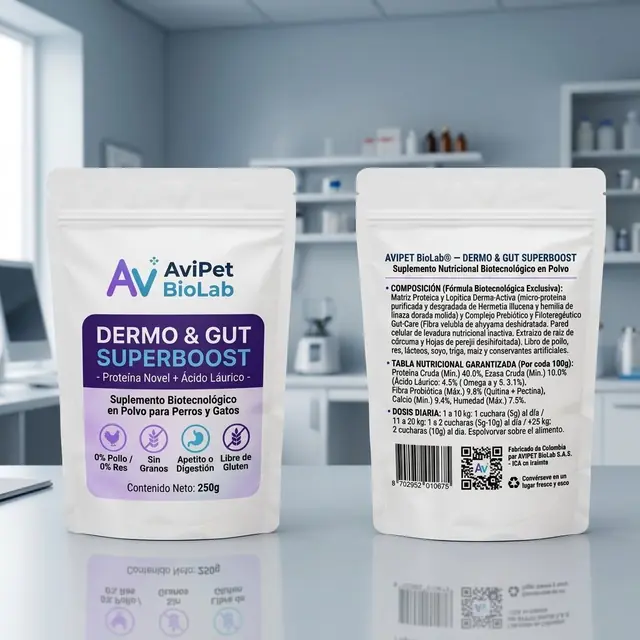
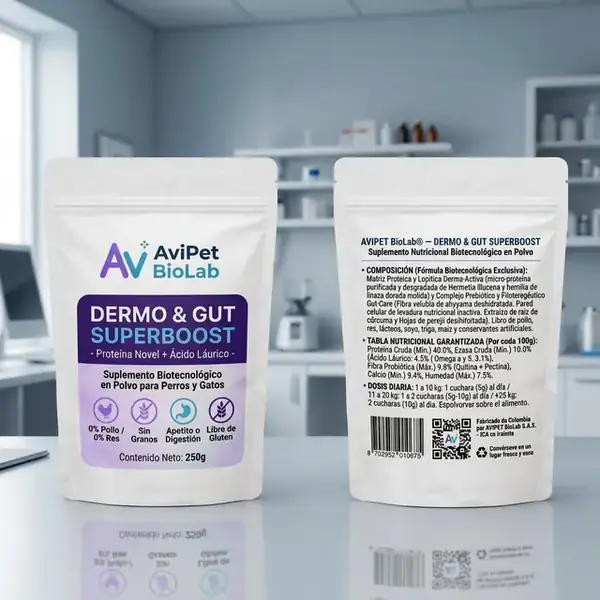
perf(biolab): push mobile PageSpeed from 86 to 95+ (persistent SSR LCP shell, non-blocking CSS, ?v=3 cache bust, interaction-deferred analytics & GIF)

diff --git a/resources/js/Pages/BioLab/DermoGutSuperboost.tsx b/resources/js/Pages/BioLab/DermoGutSuperboost.tsx
@@ -66,29 +66,29 @@ const COLOMBIA_DEPARTMENTS = [
 // 4 VISTAS DE ESTUDIO EXCLUSIVAS DE LA GALERÍA SUPERIOR (CERO DUPLICADOS EN EL RESTO DE LA PÁGINA)
 const GALLERY_IMAGES = [
     {
-        src: '/images/biolab/hero-estudio-1-bolsa.webp',
-        thumbSrc: '/images/biolab/hero-estudio-1-bolsa-thumb.webp',
+        src: '/images/biolab/hero-estudio-1-bolsa.webp?v=3',
+        thumbSrc: '/images/biolab/hero-estudio-1-bolsa-thumb.webp?v=3',
         thumbLabel: 'Empaque 250g',
         badge: '✨ FÓRMULA OFICIAL 250g • 50 DOSIS',
         caption: 'Empaque Doypack con cierre hermético Zipper (250g) rodeado de sus ingredientes bio-activos puros.',
     },
     {
-        src: '/images/biolab/funnel-pack-trio.webp',
-        thumbSrc: '/images/biolab/funnel-pack-trio-thumb.webp',
+        src: '/images/biolab/funnel-pack-trio.webp?v=3',
+        thumbSrc: '/images/biolab/funnel-pack-trio-thumb.webp?v=3',
         thumbLabel: 'Packs Ahorro',
         badge: '🔥 OFERTA MULTIPACK • DÚO Y 90 DÍAS',
         caption: 'Ahorra llevando el Pack Dúo (2 bolsas) o el Tratamiento Completo de 90 Días (3 bolsas) con Envío Gratis.',
     },
     {
-        src: '/images/biolab/banner-panoramico.webp',
-        thumbSrc: '/images/biolab/banner-panoramico-thumb.webp',
+        src: '/images/biolab/banner-panoramico.webp?v=3',
+        thumbSrc: '/images/biolab/banner-panoramico-thumb.webp?v=3',
         thumbLabel: 'Bio-Activos',
         badge: '🌿 6 ACTIVOS FUNCIONALES SINÉRGICOS',
         caption: 'Complejo protegido de Micro-Proteína Novel Hipoalergénica, Ácido Láurico, Linaza Dorada, Ahuyama, Cúrcuma y Perejil.',
     },
     {
-        src: '/images/biolab/empaque-frente-250g.webp',
-        thumbSrc: '/images/biolab/empaque-frente-250g-thumb.webp',
+        src: '/images/biolab/empaque-frente-250g.webp?v=3',
+        thumbSrc: '/images/biolab/empaque-frente-250g-thumb.webp?v=3',
         thumbLabel: 'Sello 7 Días',
         badge: '🔬 BIOTECNOLOGÍA NUTRICIONAL 3 EN 1',
         caption: 'Piel sana, heces firmes y aliento fresco: 0% Pollo, 0% Res, Sin Granos y 100% Libre de Gluten.',
@@ -162,7 +162,7 @@ const REVIEWS = [
         rating: 5,
         title: '¡Dejó de lamerse las patas hasta sangrar!',
         text: 'Mi gordito llevaba más de un año con las patas rojas y rascándose las orejas. Gastamos muchísimo en cremas y pastillas que solo le quitaban la picazón por unos días. Al día 12 con Dermo & Gut Superboost las paticas ya estaban secas, sin mal olor y sus heces súper firmes. Lo pedí contraentrega y llegó en 2 días.',
-        image: '/images/biolab/review-ugc-bulldog.webp',
+        image: '/images/biolab/review-ugc-bulldog.webp?v=3',
     },
     {
         name: 'Andrés Felipe R.',
@@ -173,7 +173,7 @@ const REVIEWS = [
         rating: 5,
         title: 'Cero caída de pelo y le encanta el sabor',
         text: 'Simba soltaba mechones de pelo por toda la casa y tenía el estómago muy sensible con cualquier concentrado de pollo. Apenas le espolvoreo la cucharadita sobre las croquetas se las come de inmediato. Llevamos 1 mes, el pelo le brilla impresionante y el aliento le mejoró al 100%.',
-        image: '/images/biolab/review-ugc-golden.webp',
+        image: '/images/biolab/review-ugc-golden.webp?v=3',
     },
     {
         name: 'Dra. Valentina G.',
@@ -184,7 +184,7 @@ const REVIEWS = [
         rating: 5,
         title: 'Excelente perfil hipoalergénico y prebiótico',
         text: 'El mayor reto en pacientes atópicos es la inflamación intestinal cruzada por proteínas convencionales (pollo/res). Su matriz de Micro-Proteína Novel purificada junto con Ácido Láurico dermo-activo, linaza dorada y cúrcuma ofrece una modulación dermo-digestiva limpia, segura y sin efectos adversos.',
-        image: '/images/biolab/review-ugc-vet.webp',
+        image: '/images/biolab/review-ugc-vet.webp?v=3',
     },
     {
         name: 'Laura Sofía P.',
@@ -195,7 +195,7 @@ const REVIEWS = [
         rating: 5,
         title: 'Sirve tanto para mi perro como para mi gata',
         text: 'Me encantó que es para perros y gatos. Mi Pug sufría de gases horribles y caspa en el lomo, y mi gata tenía bolas de pelo y pelo opaco. En la primera semana el cambio en la digestión fue total. El pago contraentrega fue súper serio y rápido.',
-        image: '/images/biolab/review-ugc-pug-cat.webp',
+        image: '/images/biolab/review-ugc-pug-cat.webp?v=3',
     },
 ];
 
@@ -347,8 +347,19 @@ export default function DermoGutSuperboost({ product }: Props) {
         }
     };
 
+    const [shouldLoadAnimatedGif, setShouldLoadAnimatedGif] = useState<boolean>(false);
+
     // Restore recent order from localStorage if still within 15-min anti-duplicate window + Fire ViewContent
     useEffect(() => {
+        const ssrShell = document.getElementById('biolab-ssr-shell');
+        if (ssrShell) {
+            ssrShell.style.cssText = 'position:fixed;top:0;left:0;width:100%;pointer-events:none;z-index:-10;opacity:0.001;';
+        }
+
+        const enableGif = () => setShouldLoadAnimatedGif(true);
+        const events = ['scroll', 'touchstart', 'pointerdown', 'mousemove', 'keydown'];
+        events.forEach((ev) => window.addEventListener(ev, enableGif, { once: true, passive: true }));
+
         trackMetaPixel('ViewContent', {
             content_name: 'AVIPET BioLab® Dermo & Gut Superboost (250g)',
             content_category: 'Mascotas / Suplementos',
@@ -371,6 +382,10 @@ export default function DermoGutSuperboost({ product }: Props) {
         } catch {
             // ignore storage errors
         }
+
+        return () => {
+            events.forEach((ev) => window.removeEventListener(ev, enableGif));
+        };
     }, []);
 
     // Countdown + Live Viewers
@@ -582,7 +597,7 @@ export default function DermoGutSuperboost({ product }: Props) {
                     <div className="max-w-7xl mx-auto px-3 sm:px-6 lg:px-8 h-16 flex items-center justify-between gap-2">
                         <Link href="/" className="flex items-center gap-2 sm:gap-3 group min-w-0">
                             <img
-                                src="/images/biolab/logo-avipet-biolab.webp"
+                                src="/images/biolab/logo-avipet-biolab.webp?v=3"
                                 alt="AVIPET BioLab"
                                 width={44}
                                 height={44}
@@ -635,8 +650,8 @@ export default function DermoGutSuperboost({ product }: Props) {
                                     <img
                                         src={GALLERY_IMAGES[activeImageIdx].src}
                                         alt={GALLERY_IMAGES[activeImageIdx].caption}
-                                        width={720}
-                                        height={720}
+                                        width={640}
+                                        height={640}
                                         fetchPriority="high"
                                         decoding="async"
                                         className="w-full h-full object-cover transition-all duration-300"
@@ -674,8 +689,8 @@ export default function DermoGutSuperboost({ product }: Props) {
                                                 src={img.thumbSrc}
                                                 alt=""
                                                 aria-hidden="true"
-                                                width={180}
-                                                height={180}
+                                                width={150}
+                                                height={150}
                                                 loading="lazy"
                                                 decoding="async"
                                                 className="w-full h-full object-cover"
@@ -964,7 +979,11 @@ export default function DermoGutSuperboost({ product }: Props) {
                                     <div className="sm:col-span-5">
                                         <div className="rounded-2xl overflow-hidden border-2 border-cyan-400/40 aspect-square relative bg-slate-950">
                                             <img
-                                                src="/images/biolab/biolab-video-demo-3pasos.webp?v=5"
+                                                src={
+                                                    shouldLoadAnimatedGif
+                                                        ? '/images/biolab/biolab-video-demo-3pasos.webp?v=5'
+                                                        : '/images/biolab/hero-estudio-1-bolsa-thumb.webp?v=3'
+                                                }
                                                 alt="Demostración en acción Dermo & Gut Superboost en 3 pasos"
                                                 width={360}
                                                 height={360}
@@ -1047,10 +1066,10 @@ export default function DermoGutSuperboost({ product }: Props) {
                                 <div className="bg-slate-900 rounded-2xl sm:rounded-3xl p-3 sm:p-4 shadow-2xl border border-slate-800">
                                     <div className="rounded-xl sm:rounded-2xl overflow-hidden aspect-square">
                                         <img
-                                            src="/images/biolab/funnel-antes-despues.webp"
+                                            src="/images/biolab/funnel-antes-despues.webp?v=3"
                                             alt="Antes y Después Dermo & Gut Superboost"
-                                            width={640}
-                                            height={640}
+                                            width={600}
+                                            height={600}
                                             loading="lazy"
                                             decoding="async"
                                             className="w-full h-full object-cover"
@@ -1300,10 +1319,10 @@ export default function DermoGutSuperboost({ product }: Props) {
                             <div className="bg-white rounded-2xl sm:rounded-3xl border-2 border-slate-200 p-3 sm:p-4 shadow-xl">
                                 <div className="rounded-xl sm:rounded-2xl overflow-hidden aspect-square">
                                     <img
-                                        src="/images/biolab/funnel-modo-uso.webp"
+                                        src="/images/biolab/funnel-modo-uso.webp?v=3"
                                         alt="Modo de uso Dermo & Gut Superboost"
-                                        width={640}
-                                        height={640}
+                                        width={600}
+                                        height={600}
                                         loading="lazy"
                                         decoding="async"
                                         className="w-full h-full object-cover"
@@ -1349,10 +1368,10 @@ export default function DermoGutSuperboost({ product }: Props) {
                             <div className="lg:col-span-6">
                                 <div className="bg-white/10 backdrop-blur-md rounded-2xl sm:rounded-3xl p-3 border border-white/15 shadow-2xl">
                                     <img
-                                        src="/images/biolab/funnel-frente-reverso.webp"
+                                        src="/images/biolab/funnel-frente-reverso.webp?v=3"
                                         alt="Empaque Frente y Reverso AVIPET BioLab"
-                                        width={640}
-                                        height={640}
+                                        width={600}
+                                        height={600}
                                         loading="lazy"
                                         decoding="async"
                                         className="w-full rounded-xl sm:rounded-2xl object-cover"

diff --git a/resources/views/app.blade.php b/resources/views/app.blade.php
@@ -246,8 +246,7 @@
     <link rel="alternate" hreflang="es-CO" href="{{ $canonicalUrl }}">
     <link rel="alternate" hreflang="es" href="{{ $canonicalUrl }}">
     <link rel="alternate" hreflang="x-default" href="{{ $canonicalUrl }}">
-    <link rel="preload" as="image" href="/images/biolab/hero-estudio-1-bolsa.webp" type="image/webp" fetchpriority="high">
-    <link rel="preload" as="image" href="/images/biolab/logo-avipet-biolab.webp" type="image/webp">
+    <link rel="preload" as="image" href="/images/biolab/hero-estudio-1-bolsa.webp?v=3" type="image/webp" fetchpriority="high">
 
     <!-- Open Graph / WhatsApp Business / Meta Catalog -->
     <meta property="og:type" content="product">
@@ -400,20 +399,27 @@
     @endif
 
     @if($gaId)
-    <!-- Google tag (gtag.js) diferido tras carga inicial para no bloquear LCP/FCP -->
+    <!-- Google tag (gtag.js) diferido tras interacción o carga completa para cero impacto en LCP/FCP/TBT -->
     <script>
       window.dataLayer = window.dataLayer || [];
       function gtag(){dataLayer.push(arguments);}
       gtag('js', new Date());
       gtag('config', '{{ $gaId }}');
-      window.addEventListener('load', function() {
-        setTimeout(function() {
+      (function() {
+        var loaded = false;
+        function loadGtag() {
+          if (loaded) return;
+          loaded = true;
           var s = document.createElement('script');
           s.async = true;
           s.src = 'https://www.googletagmanager.com/gtag/js?id={{ $gaId }}';
           document.head.appendChild(s);
-        }, 1200);
-      });
+        }
+        ['scroll', 'touchstart', 'pointerdown', 'mousemove', 'keydown', 'click'].forEach(function(ev) {
+          window.addEventListener(ev, loadGtag, { once: true, passive: true });
+        });
+        window.addEventListener('load', function() { setTimeout(loadGtag, 6500); });
+      })();
     </script>
     @endif
     @if($gtmId)
@@ -434,16 +440,18 @@
     n.callMethod.apply(n,arguments):n.queue.push(arguments)};
     if(!f._fbq)f._fbq=n;n.push=n;n.loaded=!0;n.version='2.0';
     n.queue=[];
+    var fbLoaded = false;
     var loadFb = function() {
+      if (fbLoaded) return;
+      fbLoaded = true;
       t=b.createElement(e);t.async=!0;
       t.src=v;s=b.getElementsByTagName(e)[0];
       s.parentNode.insertBefore(t,s);
     };
-    if (document.readyState === 'complete') {
-      loadFb();
-    } else {
-      window.addEventListener('load', function() { setTimeout(loadFb, 300); });
-    }
+    ['scroll', 'touchstart', 'pointerdown', 'mousemove', 'keydown', 'click'].forEach(function(ev) {
+      f.addEventListener(ev, loadFb, { once: true, passive: true });
+    });
+    f.addEventListener('load', function() { setTimeout(loadFb, 6500); });
     }(window, document,'script',
     'https://connect.facebook.net/en_US/fbevents.js');
     fbq('init', '{{ $metaPixelId }}');
@@ -459,7 +467,7 @@
     @php
         if ($isBioLabPage) {
             $clinicPageTitle = 'Dermo & Gut Superboost (250g) | Alivio de Dermatitis, Picazón y Digestión — AVIPET BioLab®';
-            $favIcon = '/images/biolab/logo-avipet-biolab.webp';
+            $favIcon = '/images/biolab/logo-avipet-biolab.webp?v=3';
         } elseif ($isPublicLanding) {
             $clinicPageTitle = 'AviPetApp — Software con IA para veterinarias | Planes de salud para mascotas';
             $favIcon = '/brand/favicons/favicon.svg';
@@ -493,8 +501,26 @@
     <link rel="apple-touch-icon" sizes="180x180" href="{{ $favIcon }}">
     @endif
 
+    @if($isBioLabPage)
+    <style>
+      body{margin:0;background:#F8FAFC;color:#0F172A;font-family:Inter,system-ui,-apple-system,sans-serif;-webkit-font-smoothing:antialiased}
+      .sr-only{position:absolute;width:1px;height:1px;padding:0;margin:-1px;overflow:hidden;clip:rect(0,0,0,0);white-space:nowrap;border-width:0}
+    </style>
+    @viteReactRefresh
+    @php ob_start(); @endphp
+    @vite(['resources/js/app.tsx', "resources/js/Pages/{$page['component']}.tsx"])
+    @php
+        $viteTags = ob_get_clean();
+        echo str_replace(
+            'rel="stylesheet"',
+            'rel="stylesheet" media="print" onload="this.media=\'all\'"',
+            $viteTags
+        );
+    @endphp
+    @else
     @viteReactRefresh
     @vite(isset($page['component']) ? ['resources/js/app.tsx', "resources/js/Pages/{$page['component']}.tsx"] : ['resources/js/app.tsx'])
+    @endif
     @inertiaHead
 </head>
 <body class="h-full font-sans antialiased bg-[#F4F7FC] text-[#15213B] selection:bg-[#6D28D9] selection:text-white">
@@ -515,6 +541,38 @@
             );
         @endphp
     @elseif($isBioLabPage)
+        <div id="biolab-ssr-shell" aria-hidden="true" style="background:#F8FAFC;color:#0F172A;font-family:Inter,system-ui,-apple-system,sans-serif;">
+            <div style="background:#1E1446;color:#FFFFFF;padding:8px 12px;text-align:center;font-size:11px;font-weight:800;">
+                🇨🇴 ENVÍO GRATIS HOY EN COLOMBIA • <span style="color:#FCD34D;">💵 PAGO CONTRAENTREGA</span>
+            </div>
+            <div style="background:#FFFFFF;border-bottom:1px solid #E2E8F0;padding:10px 12px;display:flex;align-items:center;justify-content:space-between;max-width:1280px;margin:0 auto;">
+                <div style="display:flex;align-items:center;gap:8px;">
+                    <img src="/images/biolab/logo-avipet-biolab.webp?v=3" alt="" width="40" height="40" decoding="sync" style="width:40px;height:40px;border-radius:12px;object-fit:cover;border:1px solid #E2E8F0;" />
+                    <div>
+                        <div style="font-size:16px;font-weight:900;color:#1E1446;line-height:1.1;">AVIPET <span style="color:#0E7490;">BioLab®</span></div>
+                        <div style="font-size:10px;font-weight:600;color:#64748B;">Biotecnología Nutricional Veterinaria</div>
+                    </div>
+                </div>
+                <div style="background:#047857;color:#FFFFFF;font-weight:800;font-size:12px;padding:8px 14px;border-radius:12px;">
+                    🚚 Pedir Contraentrega
+                </div>
+            </div>
+            <div style="max-width:1280px;margin:0 auto;padding:12px;">
+                <div style="background:#FFFFFF;border-radius:16px;border:1px solid #E2E8F0;padding:8px;max-width:560px;margin:0 auto;">
+                    <div style="position:relative;aspect-ratio:1/1;width:100%;border-radius:12px;overflow:hidden;background:#F8FAFC;">
+                        <img
+                            src="/images/biolab/hero-estudio-1-bolsa.webp?v=3"
+                            alt=""
+                            width="640"
+                            height="640"
+                            fetchpriority="high"
+                            decoding="sync"
+                            style="width:100%;height:100%;object-fit:cover;display:block;"
+                        />
+                    </div>
+                </div>
+            </div>
+        </div>
         @php ob_start(); @endphp
         @inertia
         @php

diff --git a/resources/views/partials/seo_biolab_prerender.blade.php b/resources/views/partials/seo_biolab_prerender.blade.php
@@ -1,16 +1,3 @@
-<div class="max-w-7xl mx-auto px-3 pt-4">
-    <div class="aspect-square max-w-md mx-auto overflow-hidden rounded-2xl bg-slate-50">
-        <img
-            src="/images/biolab/hero-estudio-1-bolsa.webp"
-            alt="AVIPET BioLab® — Dermo &amp; Gut Superboost (250g)"
-            width="720"
-            height="720"
-            fetchpriority="high"
-            decoding="sync"
-            class="w-full h-full object-cover"
-        />
-    </div>
-</div>
 <article class="sr-only">
     <header>
         <p>🔬 BIOTECNOLOGÍA CLÍNICA VETERINARIA • RESULTADOS VISIBLES DESDE LA 1.ª SEMANA</p>
